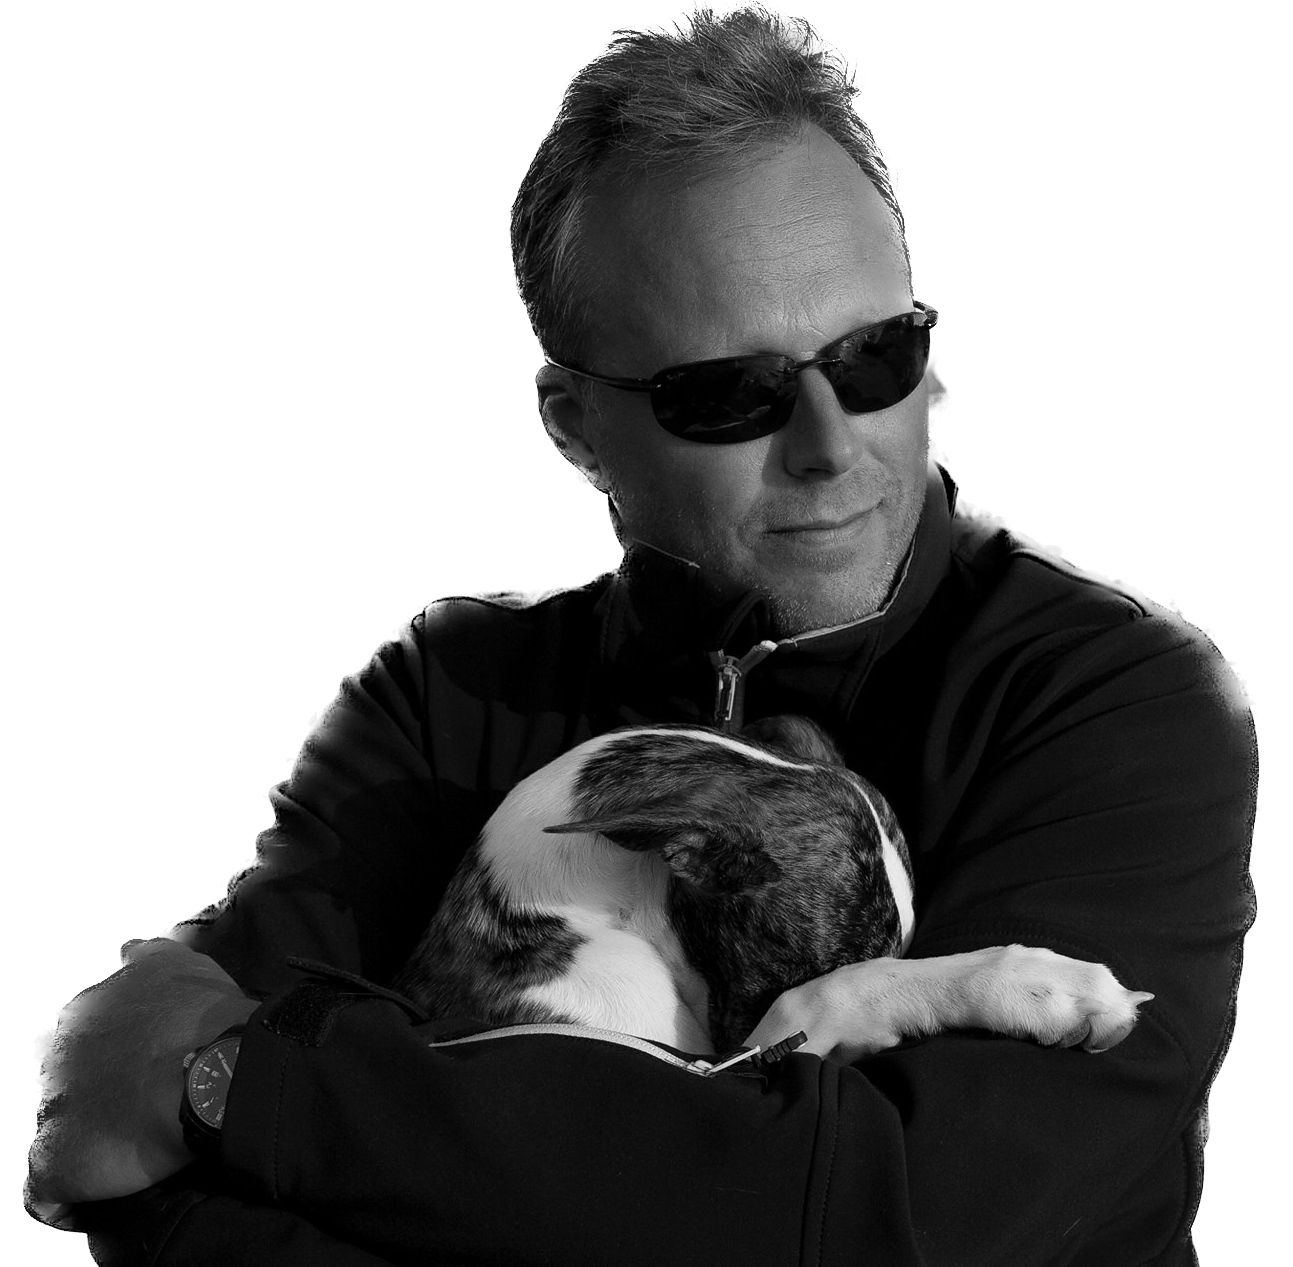
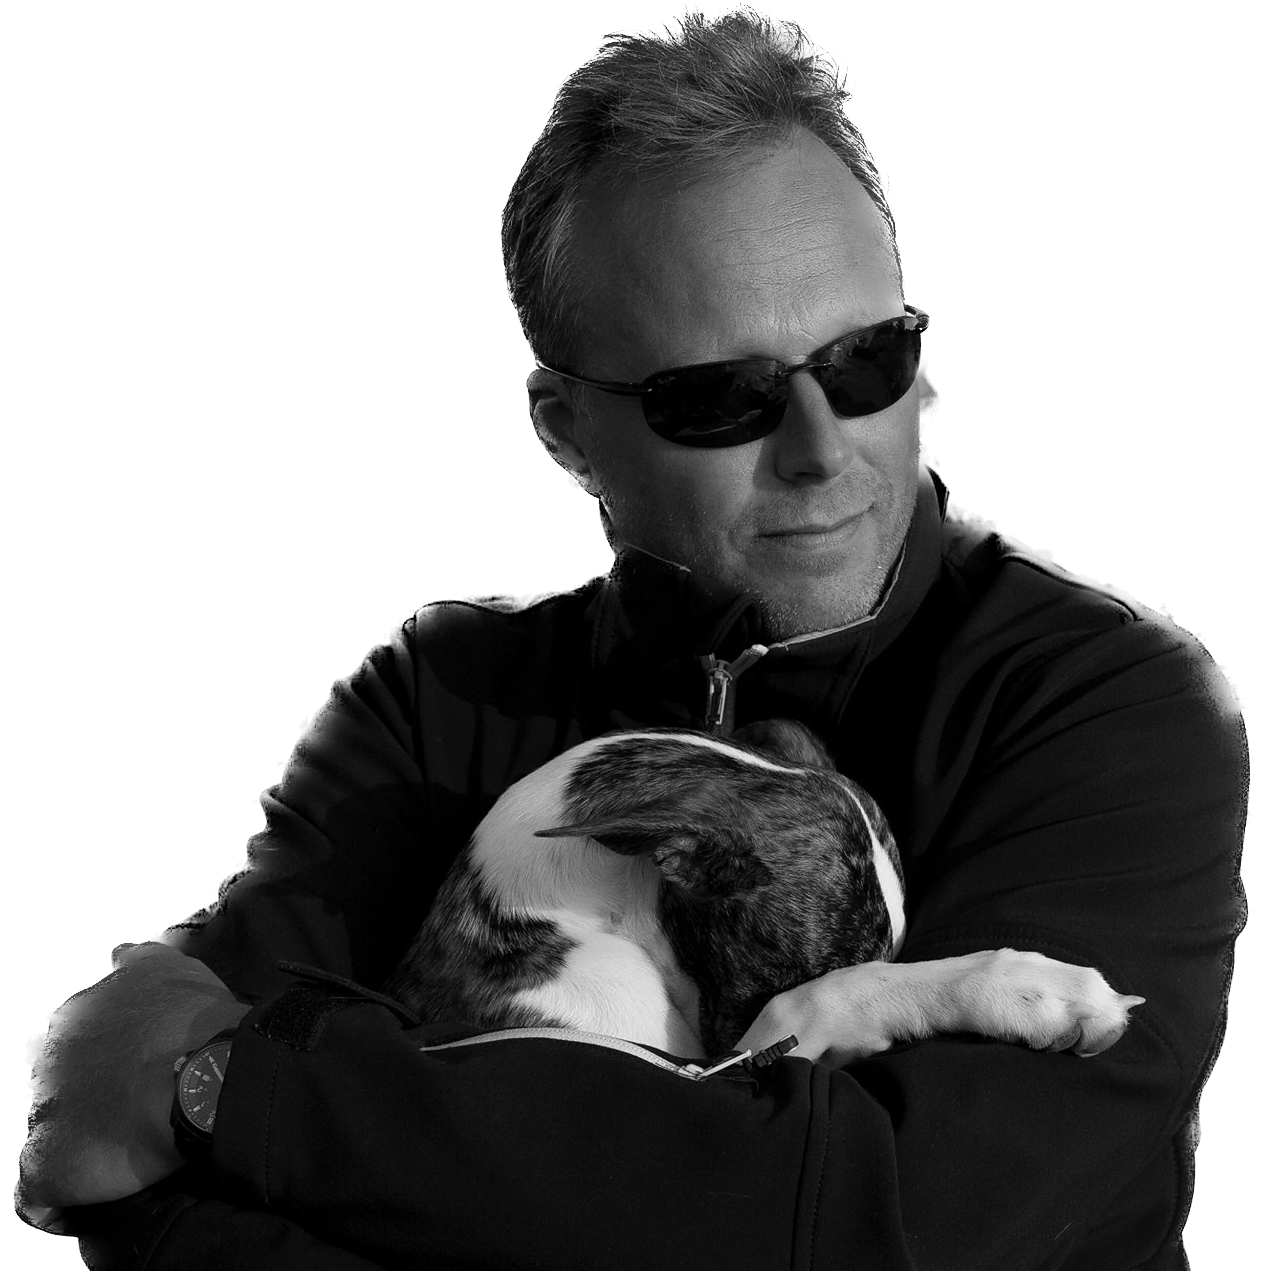
AddedScript to position Niclas img

diff --git a/Site/scripts/niclasImgPosition.js b/Site/scripts/niclasImgPosition.js
@@ -1,0 +1,28 @@
+function getNiclasLeftPx() {
+    const niclasImg = document.getElementById('niclasImg');
+    // Gets the screen width
+    const screenWidth = window.innerWidth;
+
+    // Get nav bar size
+    const style = getComputedStyle(document.body);
+    const desktopNavSize = parseInt(style.getPropertyValue('--desktopNavSize').slice(0, -2));
+    const mobileNavSize = parseInt(style.getPropertyValue('--mobileNavSize').slice(0, -2));
+
+    const imgWidth = niclasImg.clientWidth;
+    // Calculate and set value
+    const niclasLeftPxBig = desktopNavSize - imgWidth / 2 + (screenWidth - desktopNavSize) / 2;
+    const niclasLeftPxSmall = screenWidth / 2 - imgWidth / 2
+
+    if (screenWidth > (desktopNavSize + imgWidth)) {
+        niclasImg.style.left = String(niclasLeftPxBig) + 'px';
+    } else if ((screenWidth < mobileNavSize) && isPortraitOrientation()) {
+        niclasImg.style.left = String(niclasLeftPxSmall) + 'px';
+    } else {
+        niclasImg.style.left = 'auto';
+    }
+}
+
+function isPortraitOrientation(){
+    const orientation = window.innerWidth > window.innerHeight ? false : true;
+    return orientation;
+}

diff --git a/Site/css/home.css b/Site/css/home.css
@@ -86,12 +86,6 @@
     }
 }
 
-/* Adaptive size */
-
-@media (min-width: 1100px) {}
-
-@media (max-width: 768px) {}
-
 /* Page transition */
 
 @keyframes transitionIn {
@@ -110,22 +104,36 @@
     }
 
     100% {
-        transform: translateX(0px) scale(1);
+        transform: translateX(0) scale(1);
     }
 }
 
 /* Niclas image */
 
-#content {
+#niclasImg {
     position: fixed;
     bottom: var(--navContainerHeight);
+    aspect-ratio: 1 / 1;
     right: 0;
-    height: 300px;
-    width: 300px;
+    height: 65vh;
     background: url(../img/home/niclas.png) center center no-repeat;
     background-size: cover;
     animation: slideIn calc(var(--transitionLength) * 2);
     animation-timing-function: ease-in;
+}
+
+/* Adaptive size */
+
+@media (min-width: 1100px) {
+    #niclasImg {
+        height: 80vh;
+    }
+}
+
+@media (max-width: 768px) {
+    #niclasImg {
+        height: 50vh;
+    }
 }
 
 
@@ -149,13 +157,6 @@ p {
     color: #fff;
 }
 
-#niclasImg {
-    position: fixed;
-    right: 0px;
-    bottom: 60px;
-    width: 40vw;
-    height: auto;
-}
 
 
 .sliderStart {

diff --git a/Site/scripts/home.js b/Site/scripts/home.js
@@ -8,7 +8,10 @@ let navigatedFrom = document.referrer
 const menu = document.querySelector('.linkMenu');
 
 // Animation when DOM is loaded
-document.addEventListener('DOMContentLoaded', () => {slideTransition(nav, shopNav, navigatedFromShop)});
+document.addEventListener('DOMContentLoaded', () => {slideTransition(nav, shopNav, navigatedFromShop); getNiclasLeftPx(); });
+
+window.addEventListener("resize", () => {getNiclasLeftPx();});
+window.addEventListener("orientationChange", () => {getNiclasLeftPx();});
 
 // Adds ending part of animation
 getLinkIcon(getCurrentNavElement(shopNav), 'linkBag').addEventListener('animationend', () => {animationEndOnNavElements(nav, shopNav)});

diff --git a/Site/scripts/nav.js b/Site/scripts/nav.js
@@ -32,7 +32,7 @@ function isMobileNav() {
   // Gets the css variable for mobile size
   const style = getComputedStyle(document.body);
   const mobileNavSize = parseInt(style.getPropertyValue('--mobileNavSize').slice(0, -2));
-  // Gets the sreen width
+  // Gets the screen width
   const screenWidth = window.innerWidth;
   // Compares screen width to the mobile size
   if (mobileNavSize > screenWidth) {

diff --git a/Site/css/nav.css b/Site/css/nav.css
@@ -77,6 +77,11 @@ nav .mobileNav {
         overflow: hidden;
         z-index: -1;
         transition: all var(--transitionLength) ease-in;
+        overflow-y: auto;
+    }
+
+    nav .desktopNav::-webkit-scrollbar {
+        display: none;
     }
 
     nav .desktopNav.active {

diff --git a/Site/home.html b/Site/home.html
@@ -156,7 +156,7 @@
 
         <div id='wallpaperHome'></div>
 
-        <div id='content'></div>
+        <div id='niclasImg'></div>
 
         <!-- set height of div to one view height -->
 
